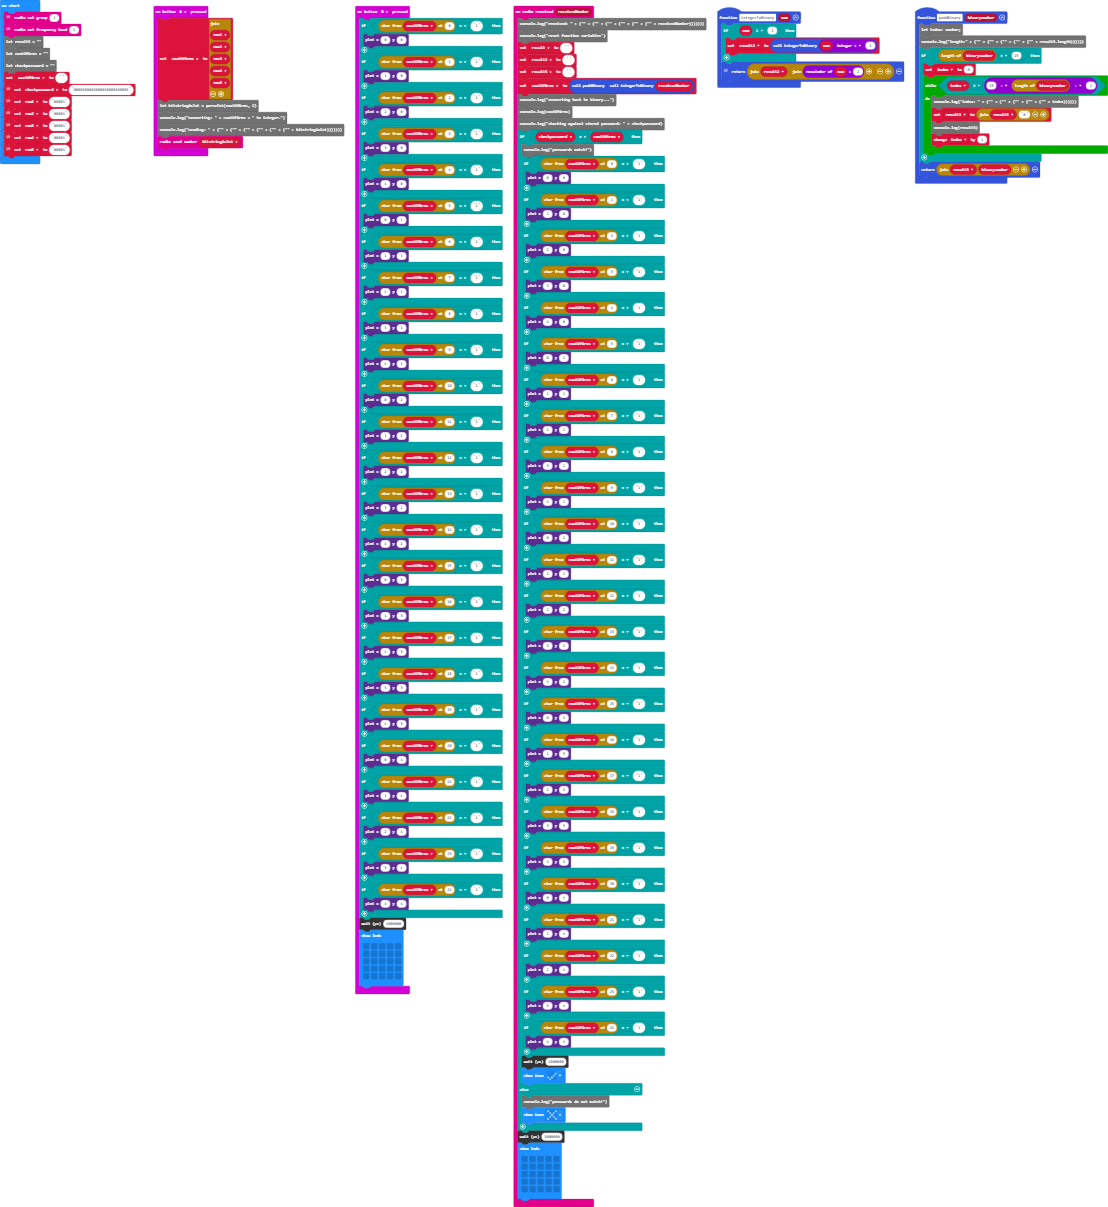
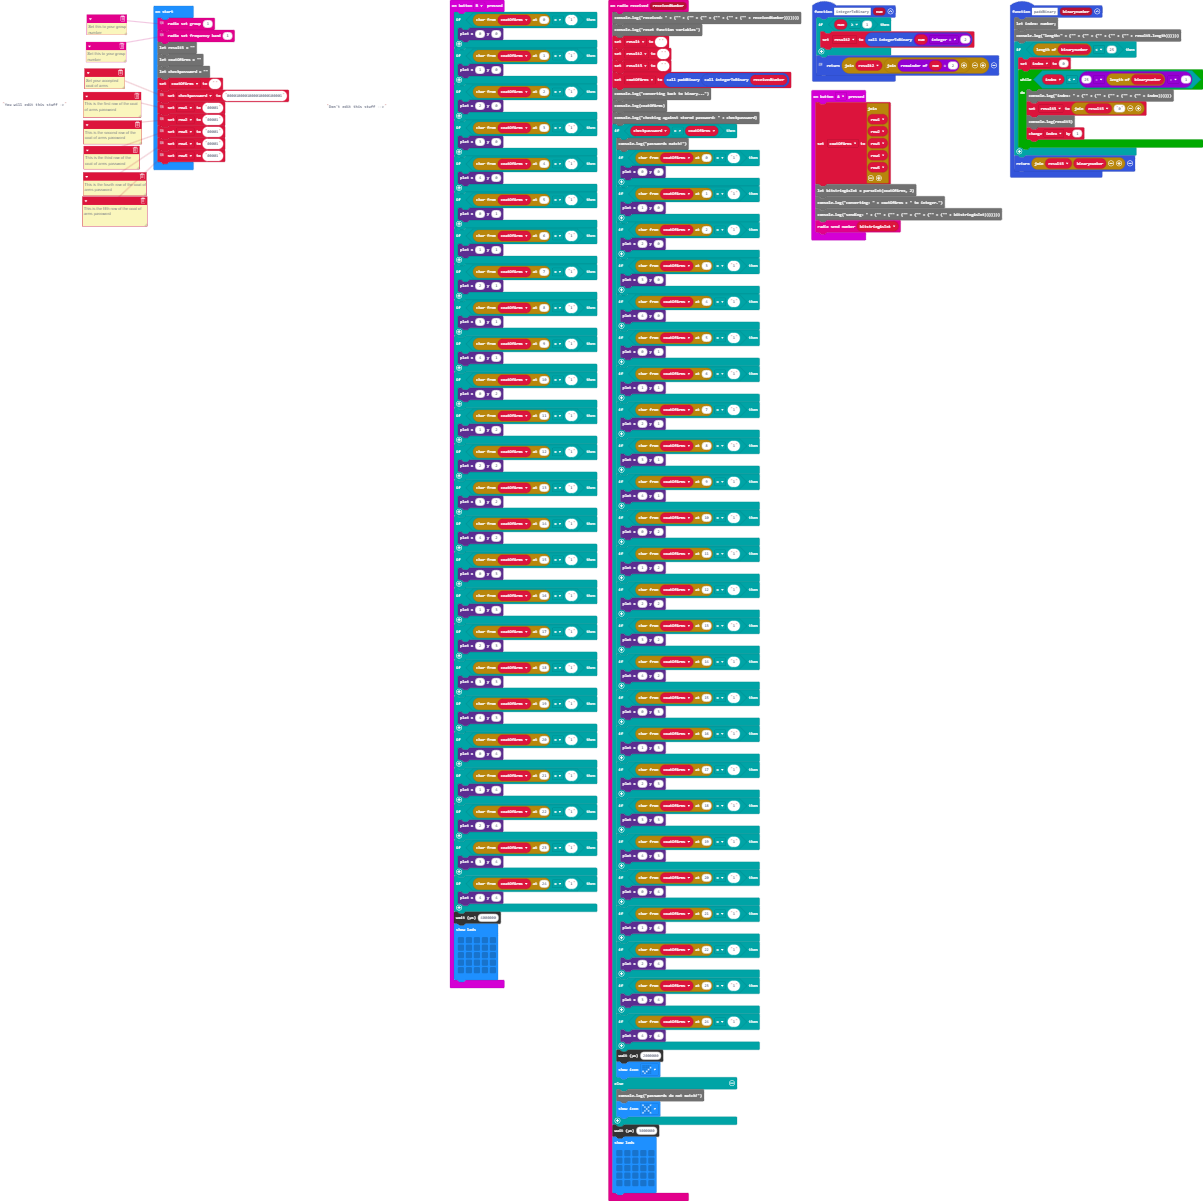
formatting

Changed region(s): [[0.0, 0.0, 1.0, 1.0]]

diff --git a/main.ts b/main.ts
@@ -230,13 +230,13 @@ let checkpassword = ""
 coatOfArms = ""
 // Set your accepted coat of arms password here
 checkpassword = "0000100001000010000100001"
-// This is the first row of the coat of arms password you want to test against the accepted one
+// This is the first row of the coat of arms password
 row1 = "00001"
-// This is the second row of the test password
+// This is the second row of the coat of arms password
 row2 = "00001"
-// This is the third row of the test password
+// This is the third row of the coat of arms password
 row3 = "00001"
-// This is the fourth row of the test password
+// This is the fourth row of the coat of arms password
 row4 = "00001"
-// This is the fifth row of the test password
+// This is the fifth row of the coat of arms password
 row5 = "00001"
